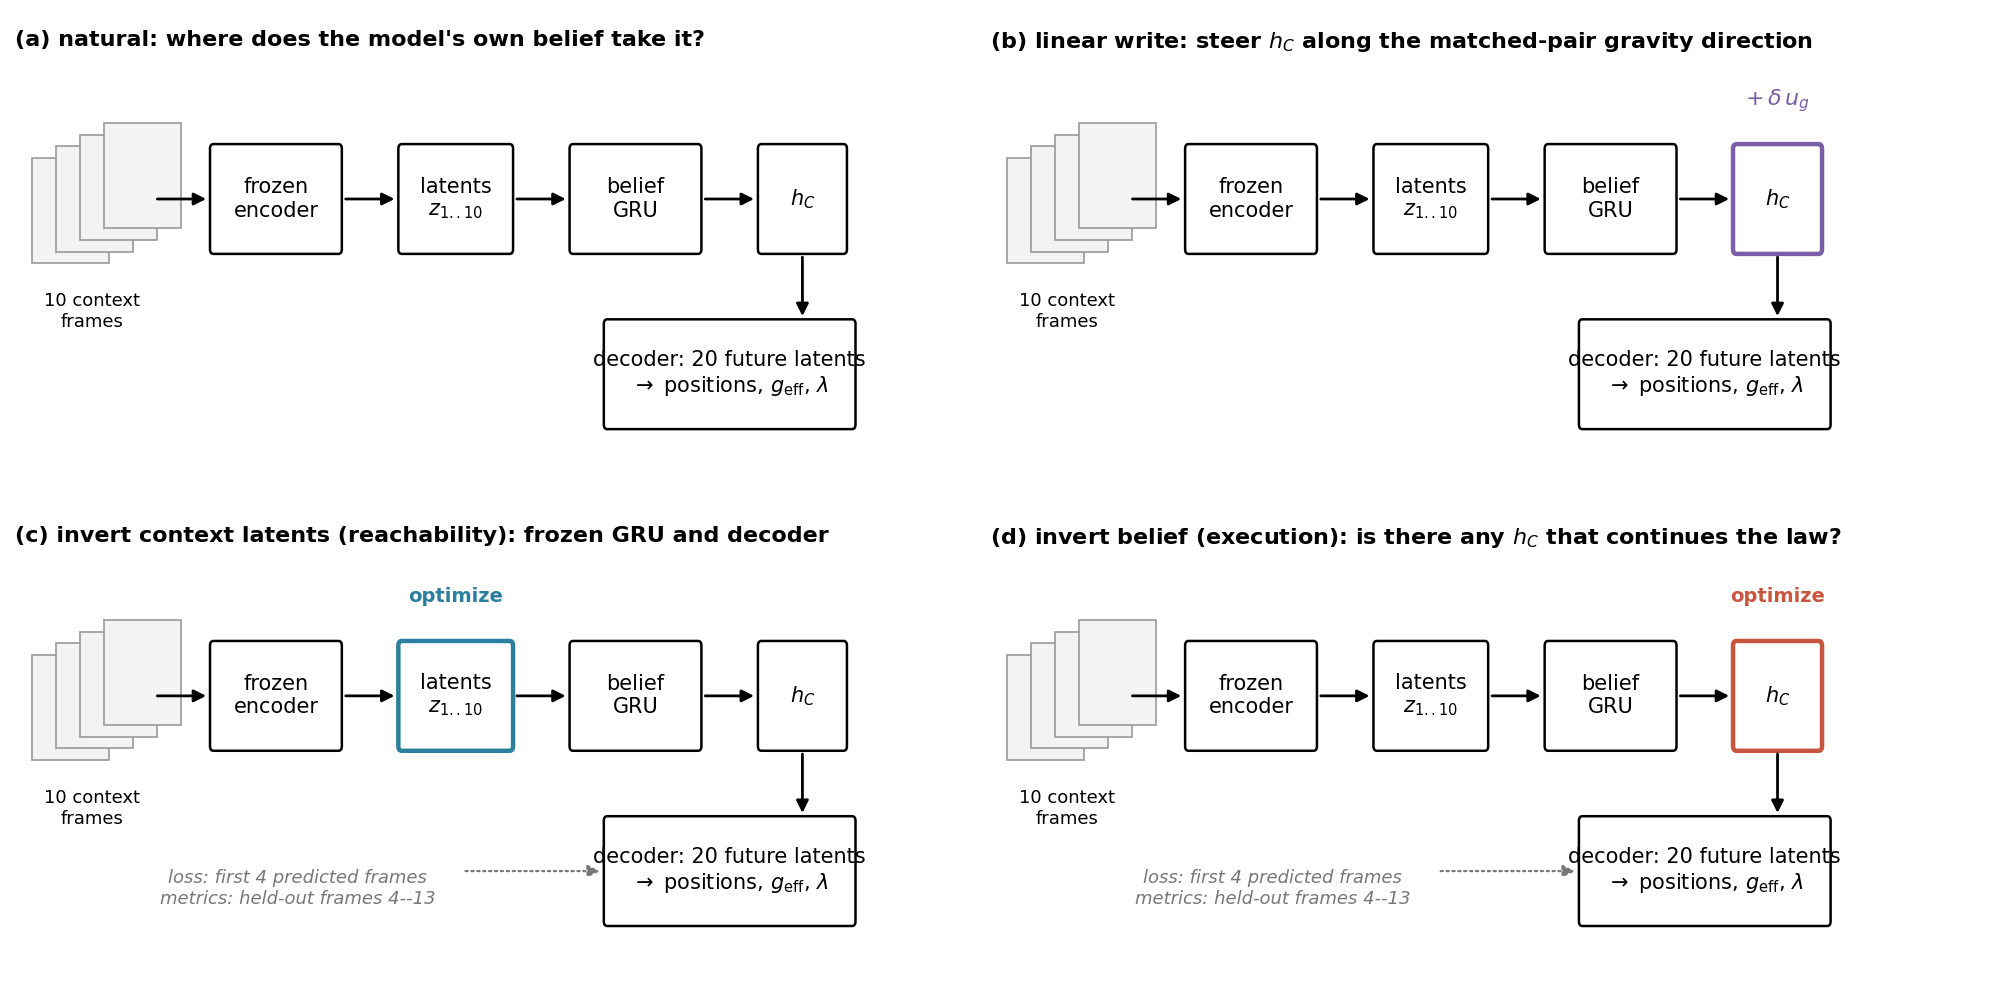
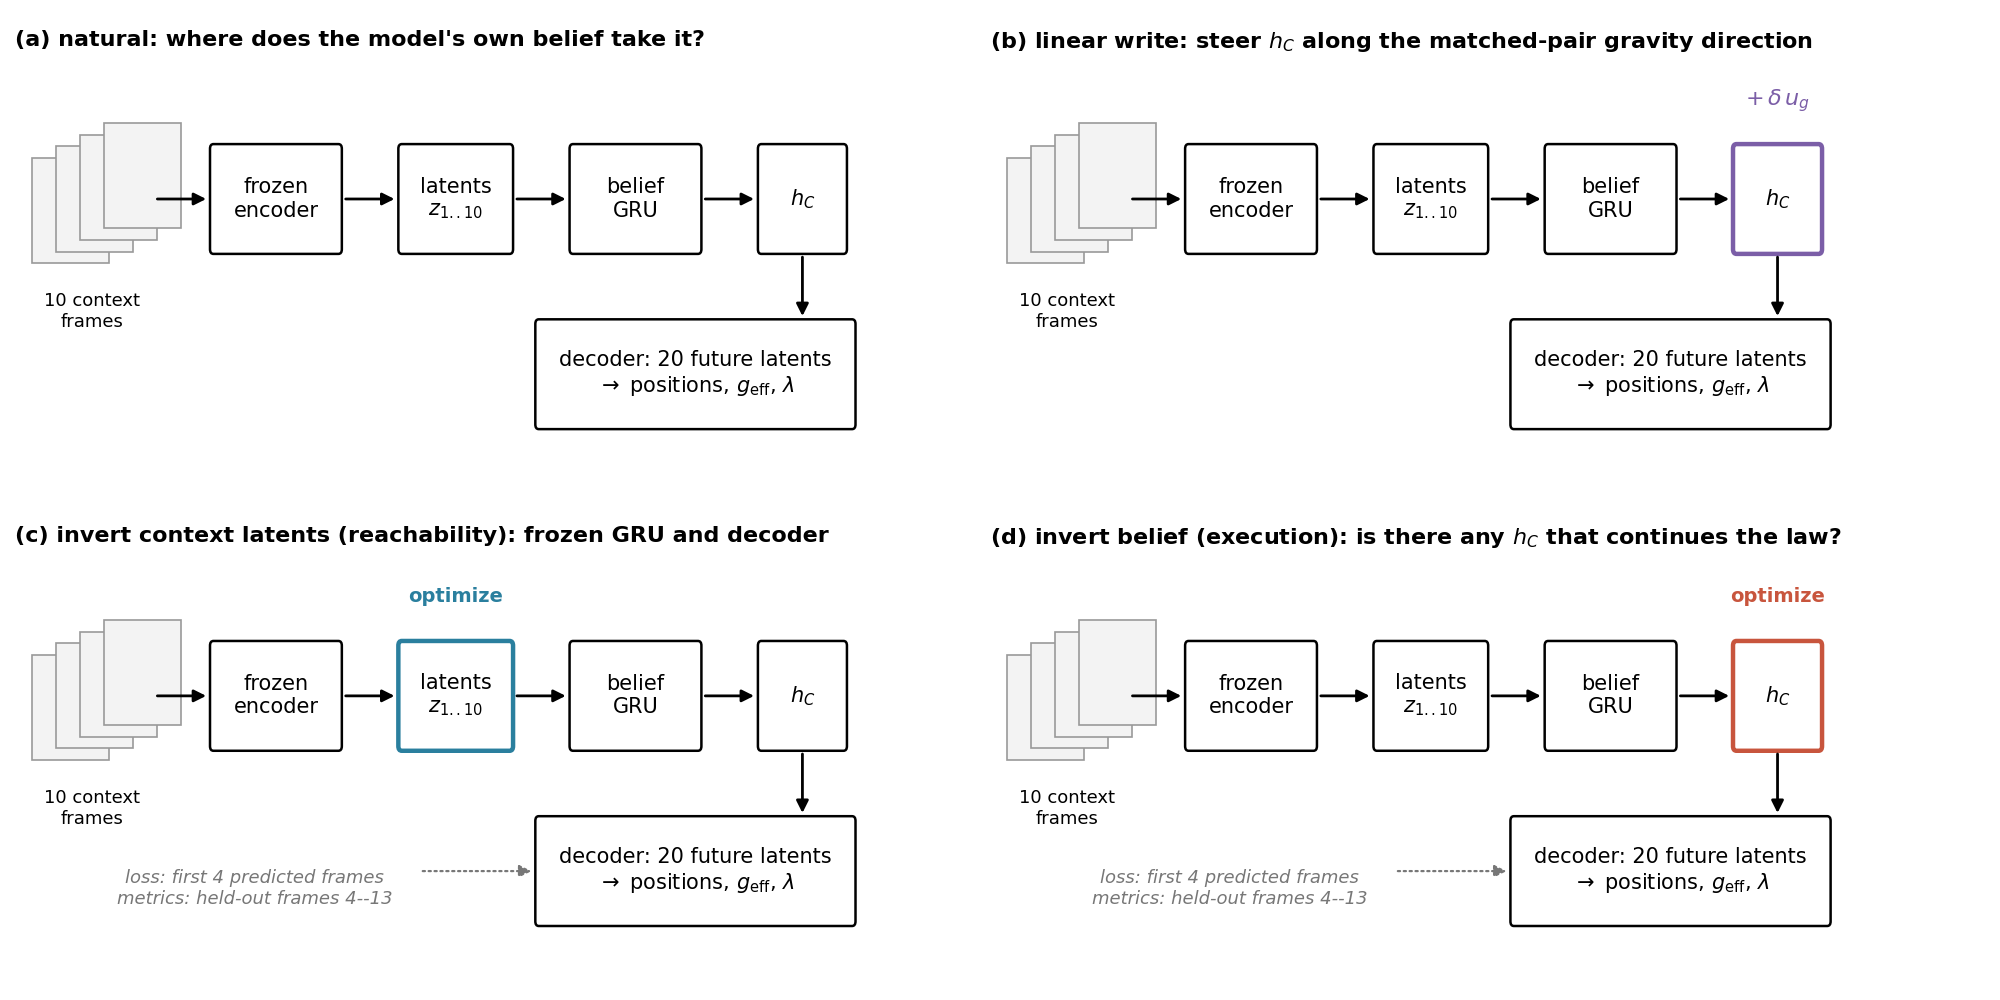
Schematic: wider decoder box

diff --git a/scripts/fig_method.py b/scripts/fig_method.py
@@ -42,7 +42,7 @@ def pipeline(ax, title, opt_z=False, opt_h=False, steer=False):
     hc = RED if opt_h else ("#7b5ea7" if steer else "black")
     box(ax, 8.8, 2.1, 1.0, 0.9, "$h_C$", ec=hc, lw=1.6 if (opt_h or steer) else 0.9, bold=True)
     arrow(ax, 9.3, 2.1, 9.3, 1.5)
-    box(ax, 7.0, 0.6, 2.9, 0.9, "decoder: 20 future latents\n$\\rightarrow$ positions, $g_{\\rm eff}$, $\\lambda$")
+    box(ax, 6.2, 0.6, 3.7, 0.9, "decoder: 20 future latents\n$\\rightarrow$ positions, $g_{\\rm eff}$, $\\lambda$")
     if opt_z:
         ax.text(5.25, 3.35, "optimize", color=BLUE, ha="center", fontsize=7, fontweight="bold")
     if opt_h:
@@ -50,9 +50,9 @@ def pipeline(ax, title, opt_z=False, opt_h=False, steer=False):
     if steer:
         ax.text(9.3, 3.35, "$+\\,\\delta\\, u_g$", color="#7b5ea7", ha="center", fontsize=8, fontweight="bold")
     if opt_z or opt_h:
-        ax.text(3.4, 0.9, "loss: first 4 predicted frames\nmetrics: held-out frames 4--13", ha="center", va="center",
+        ax.text(2.9, 0.9, "loss: first 4 predicted frames\nmetrics: held-out frames 4--13", ha="center", va="center",
                 fontsize=6.5, color=GREY, style="italic")
-        arrow(ax, 5.3, 1.05, 7.0, 1.05, color=GREY, ls=":", lw=0.8)
+        arrow(ax, 4.8, 1.05, 6.2, 1.05, color=GREY, ls=":", lw=0.8)
 
 
 def main():
